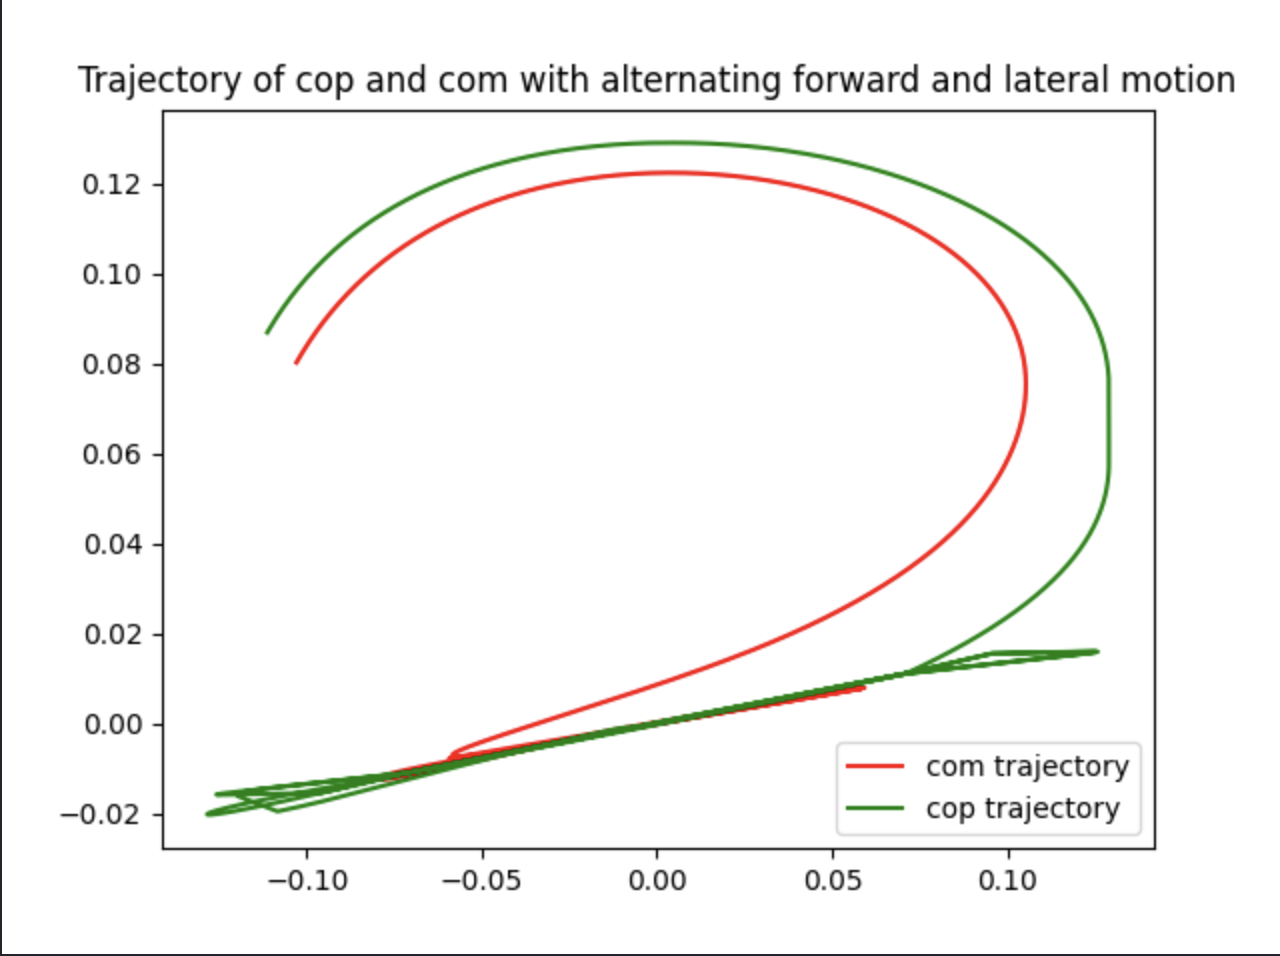
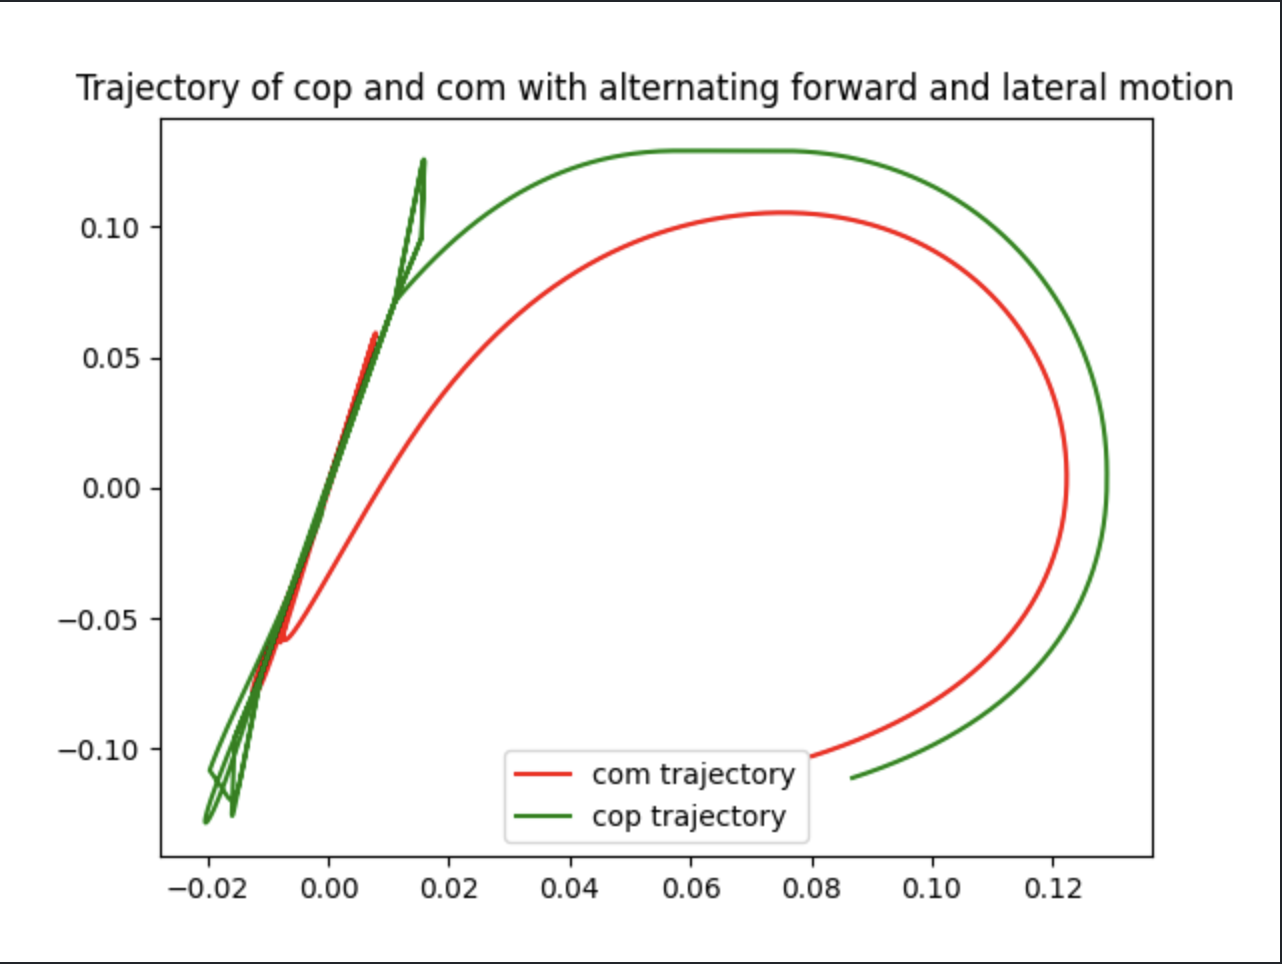
decoupled movement

diff --git a/src/multi_directional.py b/src/multi_directional.py
@@ -26,11 +26,17 @@ def main():
                                                  min_val_left=support_values_forward[0], max_val_left=support_values_forward[1],
                                                  min_val_right=support_values_forward[2],
                                                  max_val_right=support_values_forward[3])
+    zk_min_forward_moving, zk_max_forward_moving = construct_zmin_zmax_moving(steps=steps, duration_double_init=0.03,
+                                                                duration_step=0.07, duration_transition=0.018,
+                                                                foot_size=0.12,
+                                                                spacing=0.14)
 
     cop_lateral, com_lateral, _, _, zk_min_lat, zk_max_lat, x = simulation_qp(t_step, steps, g, h_com, xk_init,
                                                                       zk_min_lat, zk_max_lat)
     cop_forward, com_forward, _, _, zk_min_forward, zk_max_forward, x = simulation_qp(t_step, steps, g, h_com, xk_init,
                                                                                       zk_min_forward, zk_max_forward)
+    cop_forward_moving, com_forward_moving, _, _, zk_min_forward_moving, zk_max_forward_moving, x = simulation_qp(t_step, steps, g, h_com, xk_init,
+                                                                                      zk_min_forward_moving, zk_max_forward_moving)
 
     # cop_lateral, com_lateral, cop_forward, com_forward, zk_min_lat, zk_max_lat, zk_min_forward, zk_max_forward, x = \
     #     simulation_x_y_decoupled(t_step, steps, g, h_com, xk_init, yk_init)
@@ -42,6 +48,8 @@ def main():
     plt.plot(x, com_lateral, color="red", label="com", linewidth=1)
     plt.title("Lateral motion of the robot")
     plt.legend(loc="upper right")
+    plt.xlabel("time(s)")
+    plt.ylabel("y(m)")
     plt.show()
 
     plt.plot(x, zk_min_forward[:len(cop_forward)], linestyle="--", linewidth=0.2, color="gray")
@@ -51,12 +59,34 @@ def main():
     plt.plot(x, com_forward, color="red", label="com", linewidth=1)
     plt.title("Forward motion of the robot")
     plt.legend(loc="upper right")
+    plt.xlabel("time(s)")
+    plt.ylabel("x(m)")
     plt.show()
 
-    plt.plot(com_lateral, com_forward, label="com trajectory", color="red")
-    plt.plot(cop_lateral, cop_forward, label="cop trajectory", color="green")
+    plt.plot(x, zk_min_forward_moving[:len(cop_forward_moving)], linestyle="--", linewidth=0.2, color="gray")
+    plt.plot(x, zk_max_forward_moving[:len(cop_forward_moving)], linestyle="--", linewidth=0.2, color="gray")
+    plt.plot(x, cop_forward_moving, color="green", label="cop", linewidth=0.7)
+    # plt.scatter(x, cop, s=0.5)
+    plt.plot(x, com_forward_moving, color="red", label="com", linewidth=1)
+    plt.title("Forward moving motion of the robot")
+    plt.legend(loc="upper right")
+    plt.xlabel("time(s)")
+    plt.ylabel("x(m)")
+    plt.show()
+
+    plt.plot(com_forward, com_lateral, label="com trajectory", color="red")
+    plt.plot(cop_forward, cop_lateral, label="cop trajectory", color="green")
     plt.title("Trajectory of cop and com with alternating forward and lateral motion")
     plt.legend()
+    plt.xlabel("x(m)")
+    plt.ylabel("y(m)")
+    plt.show()
+    plt.plot(com_forward_moving, com_lateral, label="com trajectory", color="red")
+    plt.plot(cop_forward_moving, cop_lateral, label="cop trajectory", color="green")
+    plt.title("Trajectory of cop and com moving forward and alternating laterally")
+    plt.legend()
+    plt.xlabel("x(m)")
+    plt.ylabel("y(m)")
     plt.show()
 
 

diff --git a/src/coupled.py b/src/coupled.py
@@ -1,0 +1,68 @@
+from utils import *
+from simulations import *
+import matplotlib.pyplot as plt
+
+
+
+
+def main():
+    t_step = 5e-3
+    # We simulate from 0 to 9 (s)
+    steps = int(9 / t_step)
+    g = 9.81
+    h_com = 0.8
+    r_q = 1e-6
+    xk_init = (0, 0, 0)
+    yk_init = (0, 0, 0)
+
+    support_values_forward = [-0.13, -0.01, 0.01, 0.13]
+    support_values_lat = [-0.13, -0.07, 0.07, 0.13]
+
+
+    zk_min_forward, zk_max_forward = construct_zmin_zmax_moving(steps=steps, duration_double_init=0.03,
+                                                duration_step=0.07, duration_transition=0.018, foot_size=0.12,
+                                                spacing=0.14)
+
+    support_values_lat = [-0.13, -0.07, 0.07, 0.13]
+    zk_min_lat, zk_max_lat = construct_zmin_zmax(steps=steps, duration_double_init=0.26, duration_left=0.07,
+                                                 duration_right=0.07, duration_transition=0.018,
+                                                 min_val_left=support_values_lat[0], max_val_left=support_values_lat[1],
+                                                 min_val_right=support_values_lat[2],
+                                                 max_val_right=support_values_lat[3])
+
+    cop_lateral, com_lateral, _, _, zk_min_lat, zk_max_lat, x = simulation_qp(t_step, steps, g, h_com, xk_init,
+                                                                              zk_min_lat, zk_max_lat)
+    cop_forward, com_forward, _, _, zk_min_forward, zk_max_forward, x = simulation_qp(t_step, steps, g, h_com, xk_init,
+                                                                                      zk_min_forward, zk_max_forward)
+
+    # cop_lateral, com_lateral, cop_forward, com_forward, zk_min_lat, zk_max_lat, zk_min_forward, zk_max_forward, x = \
+    #     simulation_x_y_decoupled(t_step, steps, g, h_com, xk_init, yk_init)
+
+    plt.plot(x, zk_min_lat[:len(cop_lateral)], linestyle="--", linewidth=0.2, color="gray")
+    plt.plot(x, zk_max_lat[:len(cop_lateral)], linestyle="--", linewidth=0.2, color="gray")
+    plt.plot(x, cop_lateral, color="green", label="cop", linewidth=0.7)
+    # plt.scatter(x, cop, s=0.5)
+    plt.plot(x, com_lateral, color="red", label="com", linewidth=1)
+    plt.title("Lateral motion of the robot")
+    plt.legend(loc="upper right")
+    plt.show()
+
+    plt.plot(x, zk_min_forward[:len(cop_forward)], linestyle="--", linewidth=0.2, color="gray")
+    plt.plot(x, zk_max_forward[:len(cop_forward)], linestyle="--", linewidth=0.2, color="gray")
+    plt.plot(x, cop_forward, color="green", label="cop", linewidth=0.7)
+    # plt.scatter(x, cop, s=0.5)
+    plt.plot(x, com_forward, color="red", label="com", linewidth=1)
+    plt.title("Forward motion of the robot")
+    plt.legend(loc="upper right")
+    plt.show()
+
+    plt.plot(com_lateral, com_forward, label="com trajectory", color="red")
+    plt.plot(cop_lateral, cop_forward, label="cop trajectory", color="green")
+    plt.title("Trajectory of cop and com with alternating forward and lateral motion")
+    plt.legend()
+    plt.show()
+
+
+if __name__ == "__main__":
+    main()
+

diff --git a/src/utils.py b/src/utils.py
@@ -152,18 +152,19 @@ def construct_zmin_zmax_moving(steps, duration_double_init, duration_step, durat
     zk_min += [-foot_size] * int(steps * duration_transition)
     zk_max += [foot_size] * int(steps * duration_transition)
 
-    for step_number in range(1, 10):
+    # Number of steps to take
+    number_of_steps = int((steps - len(zk_min))/((duration_step + duration_transition)*steps))
+
+    for step_number in range(1, number_of_steps):
         # Lifting foot for a step
         zk_min += [(step_number - 1) * foot_size] * int(steps * duration_step)
         zk_max += [step_number * foot_size] * int(steps * duration_step)
-        if step_number == 1:
-            # Transition
-            zk_min += [0] * int(steps * duration_transition)
-            zk_max += [2 * foot_size] * int(steps * duration_transition)
-        else :
-            # Transition
-            zk_min += [(step_number-1) * foot_size] * int(steps * duration_transition)
-            zk_max += [(step_number+1) * foot_size] * int(steps * duration_transition)
+        # Transition
+        zk_min += [(step_number-1) * foot_size] * int(steps * duration_transition)
+        zk_max += [(step_number+1) * foot_size] * int(steps * duration_transition)
+
+    zk_min += [zk_min[-1]] * abs(steps - len(zk_min))
+    zk_max += [zk_max[-1]] * abs(steps - len(zk_max))
 
     return np.array(zk_min), np.array(zk_max)
 
